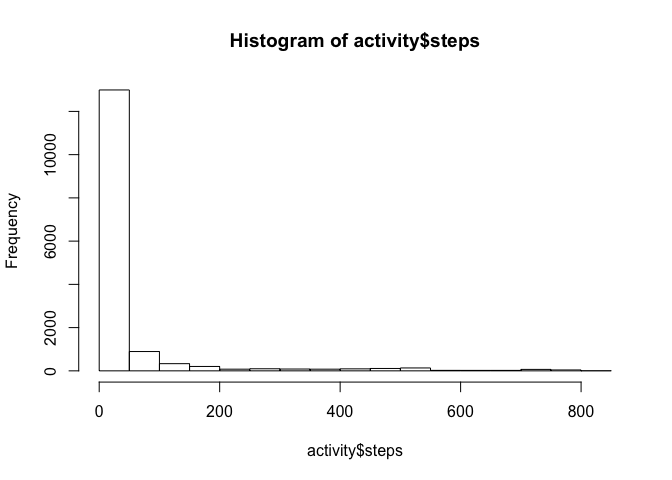
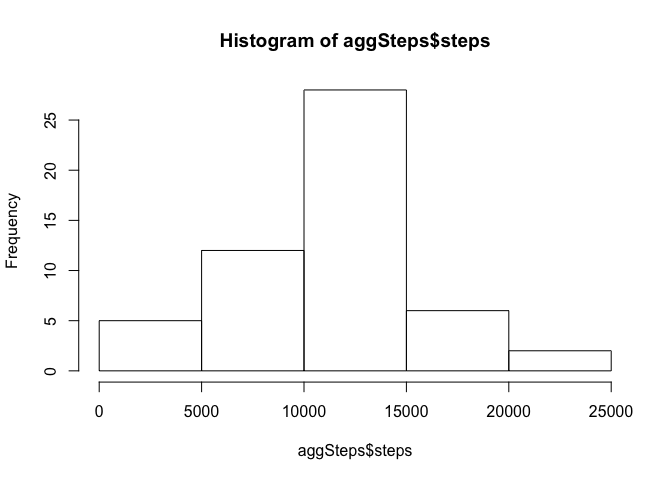
aggregated the data per day and calculate mean and median

diff --git a/PA1_template.html b/PA1_template.html
@@ -58,32 +58,35 @@ if (window.hljs && document.readyState && document.readyState === "complete") {
 <div id="loading-and-preprocessing-the-data" class="section level2">
 <h2>Loading and preprocessing the data</h2>
 <pre class="r"><code>activity &lt;-read.csv('activity.csv')
-summary(activity)</code></pre>
-<pre><code>##      steps                date          interval     
-##  Min.   :  0.00   2012-10-01:  288   Min.   :   0.0  
-##  1st Qu.:  0.00   2012-10-02:  288   1st Qu.: 588.8  
-##  Median :  0.00   2012-10-03:  288   Median :1177.5  
-##  Mean   : 37.38   2012-10-04:  288   Mean   :1177.5  
-##  3rd Qu.: 12.00   2012-10-05:  288   3rd Qu.:1766.2  
-##  Max.   :806.00   2012-10-06:  288   Max.   :2355.0  
-##  NA's   :2304     (Other)   :15840</code></pre>
-<pre class="r"><code>names(activity)</code></pre>
-<pre><code>## [1] &quot;steps&quot;    &quot;date&quot;     &quot;interval&quot;</code></pre>
+aggSteps &lt;- aggregate(steps ~ date, data = activity, sum, na.rm =TRUE)
+summary(aggSteps)    </code></pre>
+<pre><code>##          date        steps      
+##  2012-10-02: 1   Min.   :   41  
+##  2012-10-03: 1   1st Qu.: 8841  
+##  2012-10-04: 1   Median :10765  
+##  2012-10-05: 1   Mean   :10766  
+##  2012-10-06: 1   3rd Qu.:13294  
+##  2012-10-07: 1   Max.   :21194  
+##  (Other)   :47</code></pre>
 </div>
 <div id="what-is-mean-total-number-of-steps-taken-per-day" class="section level2">
 <h2>What is mean total number of steps taken per day?</h2>
+<div id="histogram-of-total-number-of-steps-taken" class="section level3">
+<h3>1. Histogram of total number of steps taken</h3>
+<pre class="r"><code>hist(aggSteps$steps)</code></pre>
[1 lines of base64/hex data omitted]
 </div>
-<div id="histogram-of-total-number-of-steps-taken" class="section level2">
-<h2>1. Histogram of total number of steps taken</h2>
-<pre class="r"><code>hist(activity$steps)</code></pre>
[1 lines of base64/hex data omitted]
 </div>
 <div id="mean-and-median-total-number-of-steps-take-per-day" class="section level2">
 <h2>2. Mean and Median total number of steps take per day</h2>
-<pre class="r"><code>mean(activity$steps, na.rm=TRUE)</code></pre>
-<pre><code>## [1] 37.3826</code></pre>
-<pre class="r"><code>median(x = activity$steps, na.rm = TRUE)</code></pre>
-<pre><code>## [1] 0</code></pre>
+<pre class="r"><code>mean(aggSteps$steps, na.rm=TRUE)</code></pre>
+<pre><code>## [1] 10766.19</code></pre>
+<pre class="r"><code>median(x = aggSteps$steps, na.rm = TRUE)</code></pre>
+<pre><code>## [1] 10765</code></pre>
+<ul>
+<li>The mean total is <code>10766.19</code> steps per day</li>
+<li>The median total is <code>10765</code> steps</li>
+</ul>
 </div>
 <div id="what-is-the-average-daily-activity-pattern" class="section level2">
 <h2>What is the average daily activity pattern?</h2>

diff --git a/PA1_template.md b/PA1_template.md
@@ -6,33 +6,26 @@
 
 ```r
 activity <-read.csv('activity.csv')
-summary(activity)
+aggSteps <- aggregate(steps ~ date, data = activity, sum, na.rm =TRUE)
+summary(aggSteps)    
 ```
 
 ```
-##      steps                date          interval     
-##  Min.   :  0.00   2012-10-01:  288   Min.   :   0.0  
-##  1st Qu.:  0.00   2012-10-02:  288   1st Qu.: 588.8  
-##  Median :  0.00   2012-10-03:  288   Median :1177.5  
-##  Mean   : 37.38   2012-10-04:  288   Mean   :1177.5  
-##  3rd Qu.: 12.00   2012-10-05:  288   3rd Qu.:1766.2  
-##  Max.   :806.00   2012-10-06:  288   Max.   :2355.0  
-##  NA's   :2304     (Other)   :15840
-```
-
-```r
-names(activity)
-```
-
-```
-## [1] "steps"    "date"     "interval"
+##          date        steps      
+##  2012-10-02: 1   Min.   :   41  
+##  2012-10-03: 1   1st Qu.: 8841  
+##  2012-10-04: 1   Median :10765  
+##  2012-10-05: 1   Mean   :10766  
+##  2012-10-06: 1   3rd Qu.:13294  
+##  2012-10-07: 1   Max.   :21194  
+##  (Other)   :47
 ```
 
 ## What is mean total number of steps taken per day?
-##1. Histogram of total number of steps taken
+###1. Histogram of total number of steps taken
 
 ```r
-hist(activity$steps)
+hist(aggSteps$steps)
 ```
 
 ![](PA1_template_files/figure-html/unnamed-chunk-2-1.png) 
@@ -40,20 +33,22 @@ hist(activity$steps)
 ##2. Mean and Median total number of steps take per day
 
 ```r
-mean(activity$steps, na.rm=TRUE)
+mean(aggSteps$steps, na.rm=TRUE)
 ```
 
 ```
-## [1] 37.3826
+## [1] 10766.19
 ```
 
 ```r
-median(x = activity$steps, na.rm = TRUE)
+median(x = aggSteps$steps, na.rm = TRUE)
 ```
 
 ```
-## [1] 0
+## [1] 10765
 ```
+- The mean total is `10766.19` steps per day
+- The median total is `10765` steps
 
 ## What is the average daily activity pattern?
 
